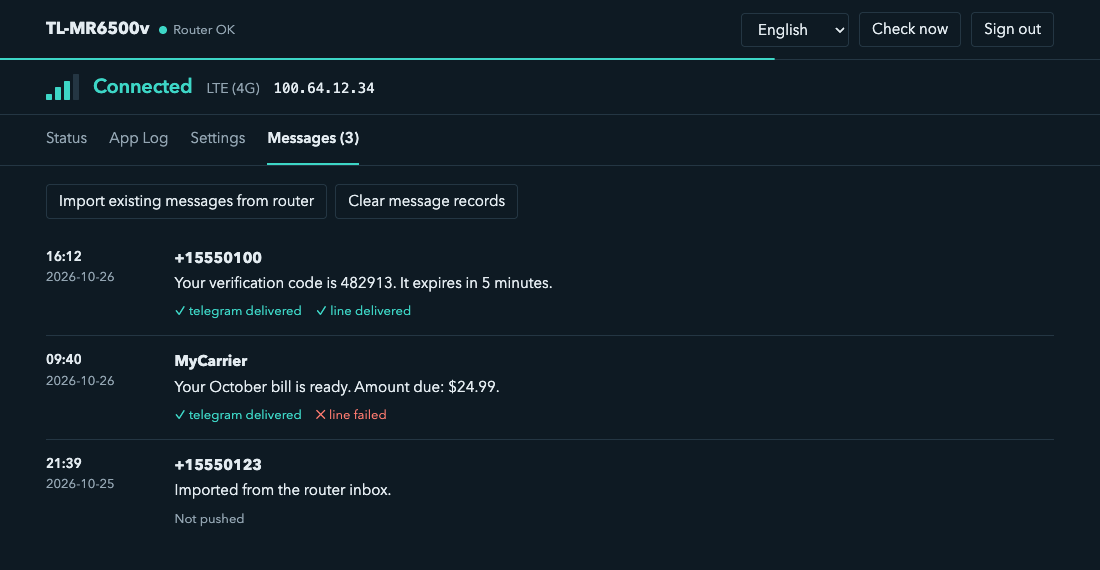
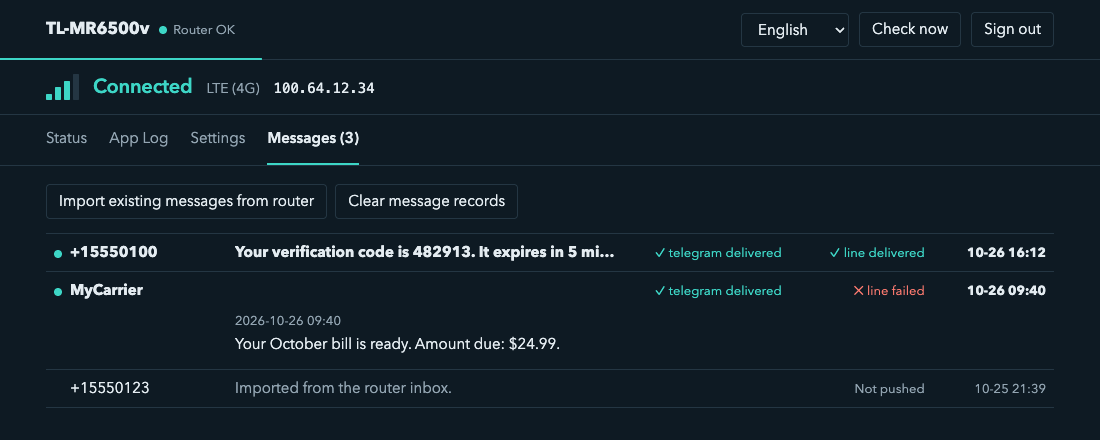
Show messages as a compact inbox list
Compact rows, a date (with the year for older messages), unread marks, and delivery badges aligned in columns next to the time. Screenshots updated.

diff --git a/src/tl_mr6500v/static/style.css b/src/tl_mr6500v/static/style.css
@@ -106,15 +106,28 @@ button:disabled { opacity: 0.55; cursor: default; }
 .toolbar { display: flex; flex-wrap: wrap; gap: 8px; align-items: center; margin-bottom: 14px; }
 .toolbar label { display: flex; gap: 8px; align-items: center; color: var(--ink-2); font-size: 14px; }
 
-/* Messages: timeline */
-.messages { margin-bottom: 14px; }
-.msg { display: grid; grid-template-columns: 7.5em 1fr; gap: 16px; padding: 14px 0; border-top: 1px solid var(--line); }
-.msg:first-child { border-top: 0; }
-.msg-time { font-size: 13px; color: var(--ink-2); font-variant-numeric: tabular-nums; }
-.msg-time b { display: block; color: var(--ink); font-weight: 600; }
-.msg-sender { font-weight: 700; }
+/* Messages: inbox list (one line per message, click to expand) */
+.messages { margin-bottom: 14px; border-top: 1px solid var(--line); }
+.msg { border-bottom: 1px solid var(--line); }
+.msg-row {
+  display: grid; grid-template-columns: 11em 1fr auto calc(var(--when-ch, 11) * 1.1ch); gap: 16px; align-items: baseline; width: 100%;
+  border: 0; border-radius: 0; padding: 7px 8px; text-align: left; font: inherit; background: transparent;
+}
+.msg-row:hover { background: var(--wash); }
+.msg-sender { position: relative; padding-left: 16px; font-weight: 400; overflow: hidden; text-overflow: ellipsis; white-space: nowrap; }
+.msg.unread .msg-sender, .msg.unread .msg-preview, .msg.unread .msg-when { font-weight: 700; color: var(--ink); }
+.unread-dot { position: absolute; left: 0; top: 0.6em; width: 8px; height: 8px; border-radius: 50%; background: var(--signal); }
+.msg-preview { color: var(--ink-2); overflow: hidden; text-overflow: ellipsis; white-space: nowrap; }
+.msg-when { text-align: right; white-space: nowrap; font-size: 13px; color: var(--ink-2); font-variant-numeric: tabular-nums; }
+.msg-detail { display: none; padding: 2px 8px 12px calc(11em + 24px); }
+.msg.open .msg-detail { display: block; }
+.msg.open .msg-preview { visibility: hidden; }
+.msg-meta { font-size: 13px; color: var(--ink-2); font-variant-numeric: tabular-nums; }
 .msg-body { white-space: pre-wrap; overflow-wrap: anywhere; max-width: 68ch; margin-top: 2px; }
-.badges { display: flex; flex-wrap: wrap; gap: 4px 14px; margin-top: 6px; font-size: 13px; }
+.badges { display: flex; flex-wrap: wrap; gap: 4px 14px; font-size: 13px; }
+.msg-row .badge { text-align: right; }
+.msg-row .badge.idle { grid-column: -2; }
+.msg-row .badges { display: grid; grid-template-columns: repeat(var(--slots, 1), 11em); gap: 0; }
 .badge { color: var(--ink-2); }
 .badge.ok { color: var(--signal); } .badge.ok::before { content: "✓ "; }
 .badge.fail { color: var(--alert); } .badge.fail::before { content: "✕ "; }
@@ -154,7 +167,9 @@ button:disabled { opacity: 0.55; cursor: default; }
   .topbar { flex-wrap: wrap; }
   .hero { flex-direction: column; align-items: flex-start; gap: 16px; }
   .fact + .fact { border-left: 0; border-top: 1px solid var(--line); padding: 16px 0 0; margin-top: 16px; }
-  .msg { grid-template-columns: 1fr; gap: 4px; }
-  .msg-time b { display: inline; margin-right: 8px; }
+  .msg-row { grid-template-columns: 1fr auto; gap: 4px 12px; }
+  .msg-preview { grid-column: 1 / -1; grid-row: 2; }
+  .msg-row .badges { display: flex; flex-wrap: wrap; gap: 4px 14px; grid-column: 1 / -1; grid-row: 3; }
+  .msg-detail { padding-left: 8px; }
   .log-row { grid-template-columns: 1fr; gap: 0; }
 }

diff --git a/src/tl_mr6500v/static/app.js b/src/tl_mr6500v/static/app.js
@@ -173,28 +173,48 @@ function renderStatus(s) {
 
 // ---------- Messages ----------
 let messageCount = 0;
+let messageSlots = 1;
+let messageWhenCh = 5;
 
 function splitTime(received) {
   const [date, time = ""] = received.split(" ");
   return [date, time.slice(0, 5)];
 }
 
+// Today: time only; this year: month-day and time; earlier years: the full date and time
+function whenLabel(m) {
+  const [date, time] = splitTime(m.received_at);
+  const today = new Date().toLocaleDateString("sv");  // YYYY-MM-DD in local time, like the router's timestamps
+  if (date === today) return time;
+  return date.slice(0, 4) === today.slice(0, 4) ? `${date.slice(5)} ${time}` : `${date} ${time}`;
+}
+
+
 function messageCard(m) {
   const entries = Object.entries(m.delivered);
   const badges = (entries.length ? entries : [["", null]]).map(([name, ok]) =>
     ok === null
-      ? el("span", { class: "badge" }, t("badge.notPushed"))
+      ? el("span", { class: "badge idle" }, t("badge.notPushed"))
       : el("span", { class: `badge ${ok ? "ok" : "fail"}` }, t(ok ? "badge.delivered" : "badge.failed", { name })),
   );
   const [date, time] = splitTime(m.received_at);
-  return el("article", { class: "msg" },
-    el("div", { class: "msg-time" }, el("b", {}, time), date),
-    el("div", {},
-      el("div", { class: "msg-sender" }, m.sender),
+  const row = el("button", { class: "msg-row", type: "button", "aria-expanded": "false" },
+    el("span", { class: "msg-sender" }, m.unread ? el("i", { class: "unread-dot", title: t("msg.unread") }) : "", m.sender),
+    el("span", { class: "msg-preview" }, m.content),
+    el("span", { class: "badges" }, ...badges),
+    el("span", { class: "msg-when" }, whenLabel(m)),
+  );
+  const card = el("article", { class: m.unread ? "msg unread" : "msg" },
+    row,
+    el("div", { class: "msg-detail" },
+      el("div", { class: "msg-meta" }, `${date} ${time}`),
       el("div", { class: "msg-body" }, m.content),
-      el("div", { class: "badges" }, ...badges),
     ),
   );
+  row.addEventListener("click", () => {
+    row.setAttribute("aria-expanded", String(card.classList.toggle("open")));
+  });
+  return card;
 }
 
 async function loadMessages(append = false) {
@@ -203,6 +223,14 @@ async function loadMessages(append = false) {
   const limit = append ? PAGE_SIZE : Math.min(Math.max(messageCount, PAGE_SIZE), 200);
   const data = await api(`/api/messages?limit=${limit}&offset=${offset}`);
   const cards = data.items.map(messageCard);
+  // Give every provider a fixed column so the delivery results line up across rows
+  const slots = Math.max(1, ...data.items.map((m) => Object.keys(m.delivered).length));
+  $("messages-list").style.setProperty("--slots", append ? Math.max(slots, messageSlots) : slots);
+  messageSlots = Math.max(slots, append ? messageSlots : 0);
+  // Every row's time column is as wide as the longest label, so today's time and dated ones take the same space
+  const whenCh = Math.max(5, ...data.items.map((m) => whenLabel(m).length));
+  messageWhenCh = Math.max(whenCh, append ? messageWhenCh : 0);
+  $("messages-list").style.setProperty("--when-ch", messageWhenCh);
   if (append) $("messages-list").append(...cards);
   else $("messages-list").replaceChildren(...cards);
   messageCount = offset + data.items.length;

diff --git a/src/tl_mr6500v/static/i18n.js b/src/tl_mr6500v/static/i18n.js
@@ -73,6 +73,7 @@ const STRINGS = {
     "badge.notPushed": "Not pushed",
     "badge.delivered": "{name} delivered",
     "badge.failed": "{name} failed",
+    "msg.unread": "Unread",
     "log.level": "Level",
     "log.all": "All",
     "log.warn": "Warnings and above",
@@ -158,6 +159,7 @@ const STRINGS = {
     "badge.notPushed": "未推送",
     "badge.delivered": "{name} 已送達",
     "badge.failed": "{name} 失敗",
+    "msg.unread": "未讀",
     "log.level": "層級",
     "log.all": "全部",
     "log.warn": "警告以上",
@@ -241,6 +243,7 @@ const STRINGS = {
     "badge.notPushed": "未推送",
     "badge.delivered": "{name} 已送达",
     "badge.failed": "{name} 失败",
+    "msg.unread": "未读",
     "log.level": "级别",
     "log.all": "全部",
     "log.warn": "警告及以上",
@@ -324,6 +327,7 @@ const STRINGS = {
     "badge.notPushed": "未通知",
     "badge.delivered": "{name} 送信済み",
     "badge.failed": "{name} 失敗",
+    "msg.unread": "未讀",
     "log.level": "レベル",
     "log.all": "すべて",
     "log.warn": "警告以上",
